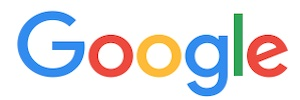
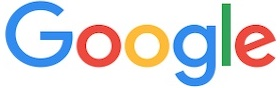
fixed centering
centering not correctly done before

diff --git a/images.html b/images.html
@@ -3,12 +3,6 @@
 <head>
   <title>Zoogle Images</title>
   <style>
-    .container {
-      display: flex;
-      align-items: center;
-    }
-  </style>
-  <style>
     .topnav {
       overflow: hidden;
     }
@@ -42,7 +36,7 @@
       display: block;
       margin-left: auto;
       margin-right: auto;
-      /*width: 30%;*/
+      width: 20%;
     }
   </style>
 </head>
@@ -53,14 +47,13 @@
       <a href="/Users/zahirudeenpremji/Downloads/search/index.html">Zoogle</a>
     </div>
   </div>
-  <div class="container">
-    <div class="center">
-      <img src="/Users/zahirudeenpremji/Downloads/search/google_images.jpg" alt="Google Image Search picture">
-      <p><form action="https://www.google.com/images">
-        <input type="search" name="q">
-        <input type="submit" value="Images Search">
-    </form></p>
-    </div>
+  <div>
+      <img src="/Users/zahirudeenpremji/Downloads/search/google_images.jpg" alt="Google Image Search picture" class="center">
+      <form action="https://www.google.com/images">
+        <input type="search" name="q" class="center">
+        <br>
+        <input type="submit" value="Images Search" class="center">
+    </form>
   </div>
 </body>
 </html>

diff --git a/index.html b/index.html
@@ -42,7 +42,7 @@
   display: block;
   margin-left: auto;
   margin-right: auto;
-  /*width: 30%;*/
+  width: 20%;
 }
 </style>
 </head>
@@ -54,14 +54,13 @@
       <a href="/Users/zahirudeenpremji/Downloads/search/advanced.html">Advanced</a>
     </div>
   </div>
-  <div class="container">
-    <div class="center">
-      <img src="/Users/zahirudeenpremji/Downloads/search/google.jpg" alt="Google Multicolor Image">
-      <p><form action="https://google.com/search">
-        <input type="search" name="q">
-        <input type="submit" value="Google Search">
-      </form></p>
-    </div>
+  <div>
+      <img src="/Users/zahirudeenpremji/Downloads/search/google.jpg" alt="Google Multicolor Image" class="center">
+      <form action="https://google.com/search">
+        <input type="search" name="q" class="center">
+        <br>
+        <input type="submit" value="Google Search" class="center">
+      </form>
   </div>
 </body>
 </html>
